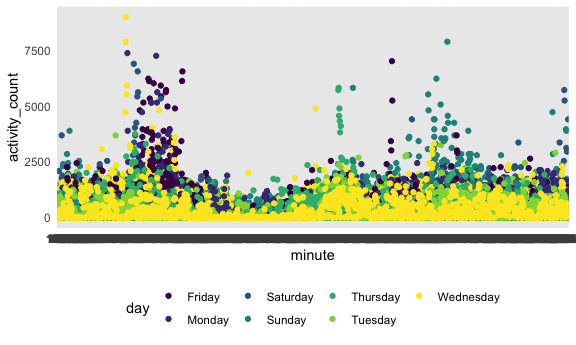
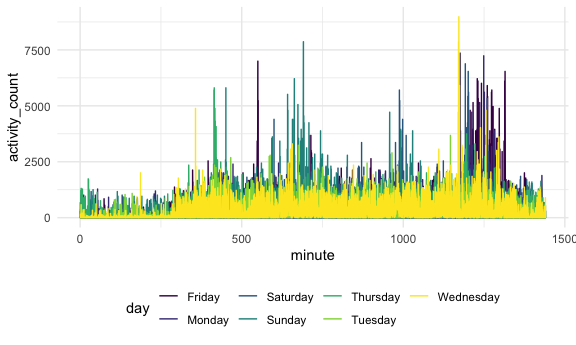
end of q2 and all of q3

diff --git a/p8105_hw3_mb4650.md b/p8105_hw3_mb4650.md
@@ -121,7 +121,12 @@ accel_tidy_data =
     activity_1:activity_1440,
     names_to = "minute",
     names_prefix = "activity_",
-    values_to = "activity_count")
+    values_to = "activity_count")%>%
+  mutate(
+    day = as.factor(day),
+    minute = as.numeric(minute),
+    week_day_end = ifelse(day == "Saturday" | day == "Sunday", "Weekdend", "Weekday")
+  )
 ```
 
     ## Parsed with column specification:
@@ -141,31 +146,127 @@ Table total activity for day.
 
 ``` r
 accel_tidy_data %>%
-  group_by(day) %>%
-  summarize(total_activity = sum(activity_count))%>%
-  arrange(desc(total_activity))
+    mutate(
+      day = factor(day, levels = c("Monday", "Tuesday", "Wednesday", "Thursday", "Friday", "Saturday", "Sunday"))
+    ) %>%
+   group_by(week, day) %>%
+  summarize(total_activity = sum(activity_count))
 ```
 
-    ## `summarise()` ungrouping output (override with `.groups` argument)
+    ## `summarise()` regrouping output by 'week' (override with `.groups` argument)
 
-    ## # A tibble: 7 x 2
-    ##   day       total_activity
-    ##   <chr>              <dbl>
-    ## 1 Friday          2291711.
-    ## 2 Wednesday       2129772.
-    ## 3 Thursday        2091151.
-    ## 4 Sunday          1919213 
-    ## 5 Monday          1858699.
-    ## 6 Tuesday         1799238.
-    ## 7 Saturday        1369237
+    ## # A tibble: 35 x 3
+    ## # Groups:   week [5]
+    ##     week day       total_activity
+    ##    <dbl> <fct>              <dbl>
+    ##  1     1 Monday            78828.
+    ##  2     1 Tuesday          307094.
+    ##  3     1 Wednesday        340115.
+    ##  4     1 Thursday         355924.
+    ##  5     1 Friday           480543.
+    ##  6     1 Saturday         376254 
+    ##  7     1 Sunday           631105 
+    ##  8     2 Monday           295431 
+    ##  9     2 Tuesday          423245 
+    ## 10     2 Wednesday        440962 
+    ## # … with 25 more rows
 
-From the output, I do not notice any trends in the total activity
+From the output table, I do not notice any trends in the total activity
 counts.
+
+Create plot activity over 24 hours.
 
 ``` r
 accel_tidy_data %>%
-  ggplot(aes(x = minute, y = activity_count )) +
-geom_point(aes(color = day)) 
+  ggplot(aes(x = minute, y = activity_count, color = day, group_by(day_id))) +
+  geom_line()
 ```
 
 <img src="p8105_hw3_mb4650_files/figure-gfm/unnamed-chunk-8-1.png" width="90%" />
+
+From the graph we are better able to see trends. We can see that there
+are spikes in activity at certain parts of the day, specifically around
+minute 500-800 and 1200-1400.
+
+## Problem 3
+
+Load the data.
+
+``` r
+data("ny_noaa")
+```
+
+Clean the dataset.
+
+``` r
+ny_noaa_tidy = 
+  ny_noaa %>%
+    separate(
+    col = date, 
+    into = c("year", "month", "day"),
+    convert = TRUE) %>%
+  mutate(
+    tmax = as.numeric(tmax),
+    tmax = tmax/10,
+    tmin = as.numeric(tmin),
+    tmin = tmin/10
+  )
+
+count = 
+  ny_noaa_tidy %>% 
+  count(snow) %>%
+  arrange(desc(n))%>%
+  mutate(rank = min_rank(desc(n))) %>%
+  filter(rank < 4)
+```
+
+For snowfall, the most common values are 0 and NA. This makes sense
+since there is no snowfall for most of the year in NY.
+
+Create two-panel plot.
+
+``` r
+ny_noaa_tidy %>%
+  select(id, month, year, tmax) %>%
+  filter(month == 7 | month == 1) %>%
+  group_by(id, month, year)%>%
+  summarize(mean_tmax = mean(tmax, na.rm = TRUE)) %>%
+  ggplot(aes(x = year, y = mean_tmax)) + 
+  geom_point(alpha = 0.5) +
+  facet_grid(~month) +
+  theme(legend.position = "bottom")
+```
+
+    ## `summarise()` regrouping output by 'id', 'month' (override with `.groups` argument)
+
+    ## Warning: Removed 5970 rows containing missing values (geom_point).
+
+<img src="p8105_hw3_mb4650_files/figure-gfm/unnamed-chunk-11-1.png" width="90%" />
+
+The mean max temps for January appears to be lower (between -20 and 10
+C) than that of the mean max temps for July (between 20 and 40 C). We
+see an outlier around 1982 in January and another around 2005. There
+appears to be an outlier around 1988 in July.
+
+``` r
+tmax_tmin = 
+  ny_noaa_tidy %>% 
+  ggplot(aes(x = tmax, y = tmin)) + 
+  geom_smooth(se = FALSE) +
+  theme(legend.position = "bottom")
+
+snow_dens = 
+  ny_noaa_tidy %>% 
+  filter(0 < snow & snow < 100) %>% 
+  ggplot(aes(x = year, y = snow)) + 
+  geom_violin(aes(fill = year)) + 
+  theme(legend.position = "bottom")
+
+tmax_tmin + snow_dens
+```
+
+    ## `geom_smooth()` using method = 'gam' and formula 'y ~ s(x, bs = "cs")'
+
+    ## Warning: Removed 1136276 rows containing non-finite values (stat_smooth).
+
+<img src="p8105_hw3_mb4650_files/figure-gfm/unnamed-chunk-12-1.png" width="90%" />
